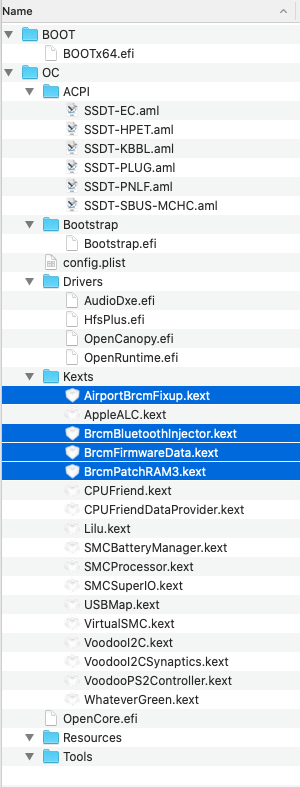
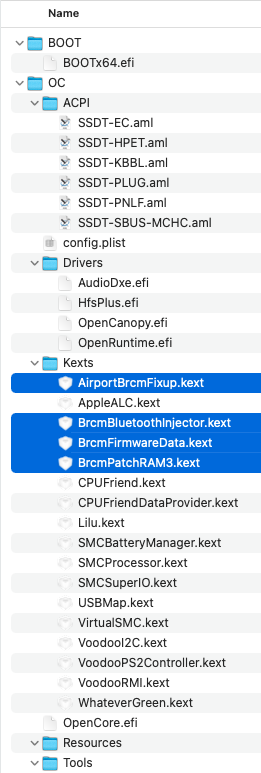
OpenCore 0.6.7, VoodooRMI.kext, MacOS 11.2.2 (#29)
Updated to OpenCore 0.6.7
Switched to VoodooRMI.kext
Confirmed compatibility with macOS Big Sur 11.2.2

Changed region(s): [[0.0, 0.0, 1.0, 1.0], [0.9195, 0.0, 1.0, 0.031]]

diff --git a/readme.md b/readme.md
@@ -1,27 +1,30 @@
 # Dell Chromebook 13 7310 Hackintosh
 
 ### Confirmed working on:
-- MacOS: **Big Sur 11.2.1**
+- MacOS: **Big Sur 11.2.2**
 - MrChromebox coreboot: **4.12**
-- OpenCore: **0.6.3**
+- OpenCore: **0.6.7**
 
 #
 **Disclaimer:** This is not meant to be a thorough guide or walkthrough. It is merely a dump of files and notes to get MacOS working on a Dell Chromebook 13 7310. I will try to keep this updated as I update my Chromebook to future MacOS releases. It's not guaranteed to work on your specific device. If it doesn't, you likely need to make some sort of changes to the supplied config.plist. I do not know what those changes may be. I am not responsible for any damage done or data lost by attempting this.
 
 
 #
+### Update 03/05/2021
+**NOTE - If you are updating from a previous config, you will need to remove the previous OpenCore boot entry in the firmware boot menu. Select your internal SSD to boot successfully again.**
+- Update to OpenCore 0.6.7
+- Switch to VoodooRMI.kext for trackpad
+- Confirm compatibility with MacOS 11.2.2
+
 ### Update 02/10/2021
 - Confirm compatibility with MacOS Big Sur 11.2.1
-
-### Update 02/07/2021
-- Confirm compatibility with MacOS Big Sur 11.2
 
 #
 
 ### Requirements:
   - Core i3 or Core i5 processor
   - [MrChromebox's coreboot firmware 4.12](https://mrchromebox.tech/#fwscript)
-  - [OpenCore 0.6.3](https://github.com/acidanthera/OpenCorePkg/releases/tag/0.6.3) 
+  - [OpenCore 0.6.7](https://github.com/acidanthera/OpenCorePkg/releases/tag/0.6.7) 
   - Minimum of a 32GB SSD
     - Minimum 64GB recommended
   - A [compatible m.2 WiFi card](https://dortania.github.io/Wireless-Buyers-Guide/types-of-wireless-card/m2.html#supported-cards)
@@ -69,11 +72,11 @@
 - Get the MAC address of your WiFi card - it should be printed on the WiFi card or you can get it from your current OS - you'll need this later
 - Create a MacOS installer flash drive
   - A guide can be found [here](https://dortania.github.io/OpenCore-Install-Guide/installer-guide/#creating-the-usb)
-- Download [OpenCore 0.6.3](https://github.com/acidanthera/OpenCorePkg/releases/tag/0.6.3) and copy only the files shown in [this screenshot](https://github.com/TheRandMan/Hackintosh---Dell-Chromebook-13-7310/blob/master/Images/Required%20Files%20From%20OC.png) to your flash drive, keeping the folder structure as seen in the image
+- Download [OpenCore 0.6.7](https://github.com/acidanthera/OpenCorePkg/releases/tag/0.6.7) and copy only the files shown in [this screenshot](https://github.com/TheRandMan/Hackintosh---Dell-Chromebook-13-7310/blob/master/Images/Required%20Files%20From%20OC.png) to your flash drive, keeping the folder structure as seen in the image
 - Download all of the [required files](https://github.com/TheRandMan/Hackintosh---Dell-Chromebook-13-7310#required-files)
-  - Be sure to make any edits mentioned - particularly to config.plist and VoodooI2CSynaptics.kext
+  - Be sure to make any edits mentioned - particularly to config.plist and VoodooRMI.kext
 - Move the required files to their appropriate locations on your installer flash drive
-   - Your EFI folder should look like [this](https://github.com/TheRandMan/Hackintosh---Dell-Chromebook-13-7310/blob/master/Images/EFI.png) - make sure all of the files are there (leave out the 4 highlighted WiFi/Bluetooth kexts if you're using a BCM94360NG)
+   - Your EFI folder should look like [this](https://github.com/TheRandMan/Hackintosh---Dell-Chromebook-13-7310/blob/master/Images/EFI.png) - make sure all of the files are there (leave out the 4 highlighted WiFi/Bluetooth kexts if you're using a BCM94360NG or other natively supported wifi card)
 - Install your new WiFi card if you haven't already
    - I had an odd issue of the Chromebook not booting after initially installing the new WiFi card. If this happens, disconnect the battery and WiFi card and try again.
 - Boot to your installer and install MacOS
@@ -118,7 +121,7 @@ Place config.plist in /EFI/OC/
     
     
 ### OpenCore Drivers
-These are included with the OpenCore download unless noted otherwise.
+These are included with the OpenCore download except for HfsPlus.efi.
 Place these in /EFI/OC/Drivers
 - AudioDxe.efi
 - [HfsPlus.efi](https://github.com/acidanthera/OcBinaryData/blob/master/Drivers/HfsPlus.efi)
@@ -151,11 +154,12 @@ Place these in /EFI/OC/Kexts
   - SMCSuperIO.kext
 - [USBMap.kext](https://github.com/TheRandMan/Hackintosh---Dell-Chromebook-13-7310/raw/master/CB13%20specific%20%20kexts/USBMap.zip)
 - [VoodooI2C.kext](https://github.com/VoodooI2C/VoodooI2C/releases)
-  - VoodooI2CSynaptics.kext
-    -  You will need to add SYNA0000 to the info.plist file found in VoodooI2CSynaptic.kext/Contents/
-      - Simply open the info.plist file and replace the one instance of SYNA2B33 with SYNA0000
+- [VoodooRMI.kext](https://github.com/VoodooSMBus/VoodooRMI/releases)  
+  - You will need to add ACPI0C50 to the info.plist file found in VoodooRMI.kext/Contents/PlugIns/RMII2C.kext/Contents/
+      - Simply open the info.plist file, find the one instance of PNP0C50 and change it to ACPI0C50
+  - You do not need the included VoodooSMBus.kext. Leave it out.
 - [VoodooPS2Controller.kext](https://github.com/TheRandMan/VoodooPS2-Chromebook/releases)
-  - Custom for Chromebooks
+  - Custom for Chromebooks. It's an old version but does everything we need at this point.
 - [CPUFriend.kext](https://github.com/acidanthera/CPUFriend/releases)
 - [CPUFriendDataProvider.kext](https://github.com/TheRandMan/Hackintosh---Dell-Chromebook-13-7310/raw/master/CB13%20specific%20%20kexts/CPUFriendDataProvider.zip)
 

diff --git a/changelog.md b/changelog.md
@@ -1,3 +1,8 @@
+### Update 03/05/2021
+- Updated for OpenCore 0.6.7
+- Switched to VoodooRMI.kext for trackpad
+- Confirm compatibility with MacOS 11.2.2
+
 ### Update 02/10/2021
 - Confirm compatibility with MacOS Big Sur 11.2.1
 
